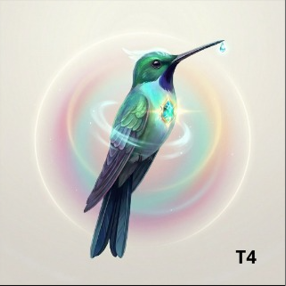
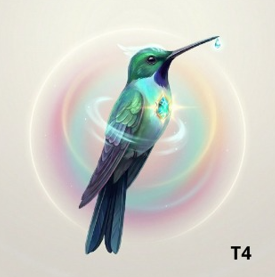
ajustes a imagen de nft

diff --git a/client/src/components/señal/NftAvatar.jsx b/client/src/components/señal/NftAvatar.jsx
@@ -1,13 +1,13 @@
-
+import { project } from "@/lib/mock-data";
 
 export default function NftAvatar({ size = "sm" }) {
   const isLarge = size === "lg";
 
   return (
-      <div className={`${isLarge ? "h-64 w-64" : "h-14 w-14"}   relative flex items-center justify-center `}>
+      <div className={`${isLarge ? "h-64 w-64" : "h-14 w-14"} rounded-full bg-white  relative flex items-center justify-center `}>
         <img 
           className="w-full h-full object-contain rounded-full"
-          src="/T4.png" 
+          src={`${project.tramoCode}.png`}
           alt="NFT Avatar"
         />
       </div>
